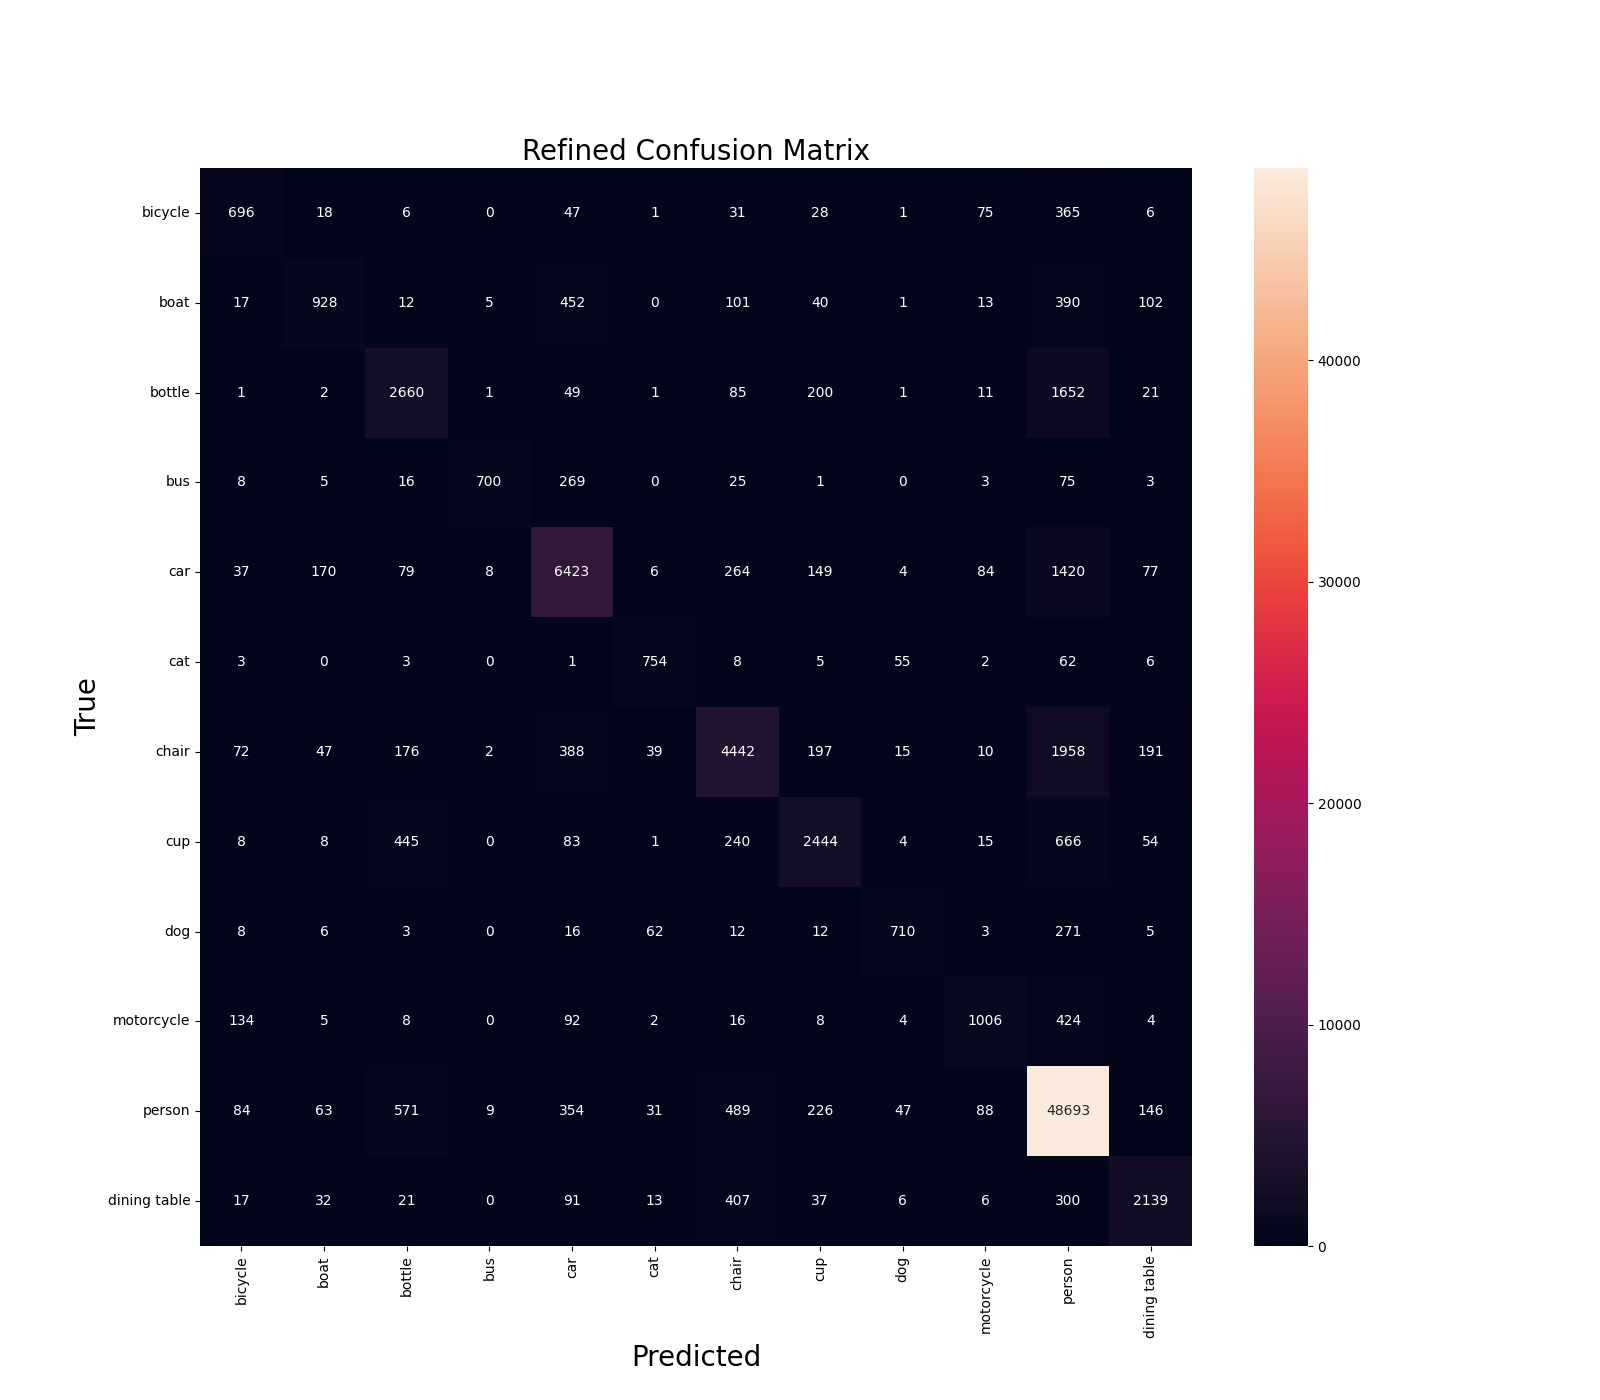
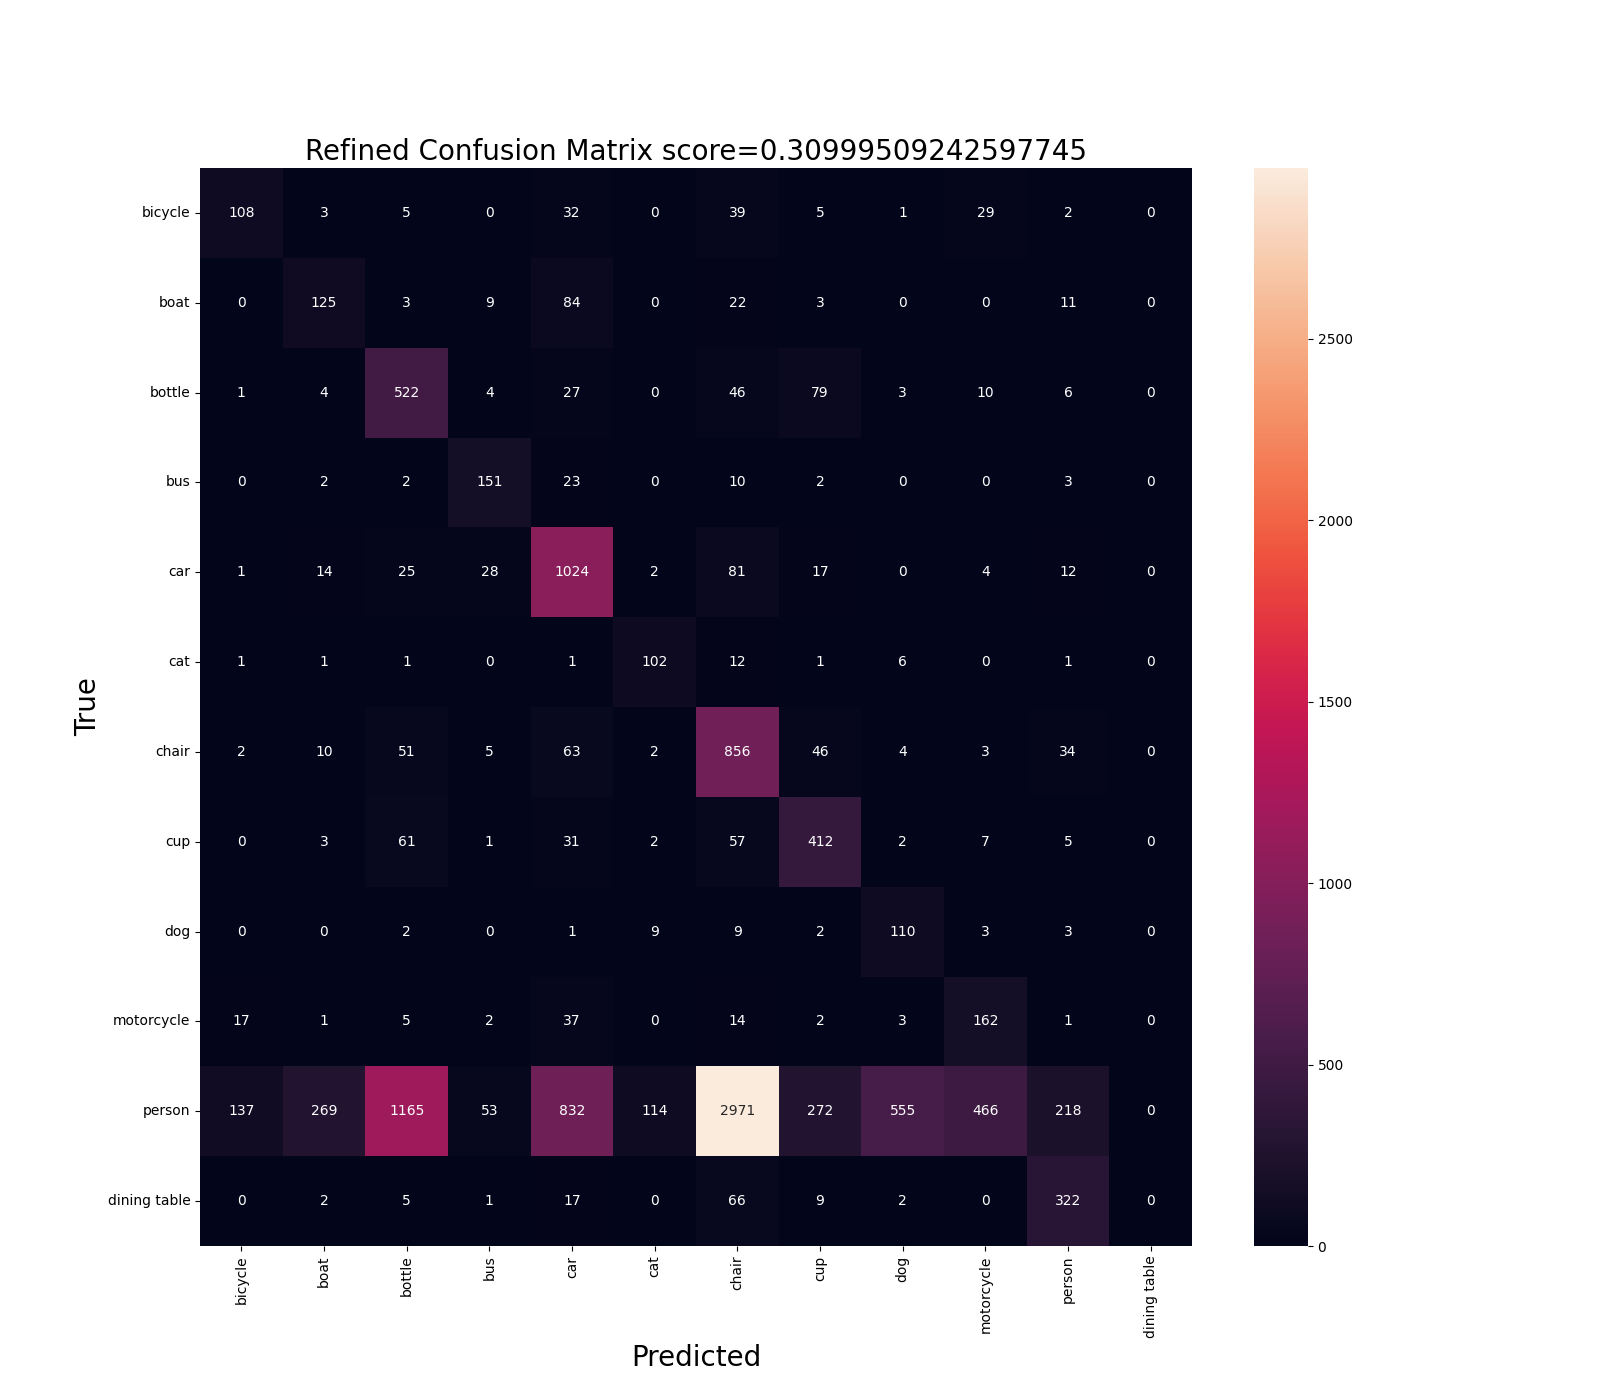
deeplearning handler
new script for runinng models dp and evaluate results

diff --git a/code/DP/DPhandler.py b/code/DP/DPhandler.py
@@ -21,7 +21,7 @@ from sklearn import metrics
 
 class DPhandler(object):
 
-    def __init__(self, classes, num_epochs, early_stop_patience=10, batch_training=100, batch_valid=100, image_size=224, channels=3, image_resize=224):
+    def __init__(self, classes, num_epochs, early_stop_patience=10, batch_training=100, batch_valid=100, image_size=224, channels=3, finetuning=False, image_resize=224):
         self.num_epochs = num_epochs
         self.early_stop_patience = early_stop_patience
         self.classes = classes
@@ -31,21 +31,27 @@ class DPhandler(object):
         self.batch_training = batch_training
         self.batch_valid = batch_valid
         self.checkpoint_path = r"E:\dataset\checkpoints"
+        self.finetuning = finetuning
 
 
     def pretrain(self, model, weights, include_top=False):
         self.pretrain_model = model(include_top=include_top, pooling='avg', weights=weights)
 
-
-    def create_model_transfer(self, classification_layers):
+    def create_model(self, classification_layers):
         self.model = Sequential()
         self.model.add(self.pretrain_model)
         for layer in classification_layers:
             self.model.add(layer)
-        self.model.layers[0].trainable = False
+        if self.finetuning:
+            for layer in self.model.layers:
+                layer.trainable = True
+        else:
+            self.model.layers[0].trainable = False
         self.model.summary()
         self.model.compile(optimizer=Adam(learning_rate=0.001), loss='categorical_crossentropy', metrics=['accuracy'])
-
+        print('layers trainable:')
+        for i, layer in enumerate(self.model.layers):
+            print(i, layer.name, layer.trainable)
 
     def loadDataset_preprocessing(self, dataset_dir, preprocess):
 
@@ -53,10 +59,8 @@ class DPhandler(object):
                                             validation_split=0.2,
                                             horizontal_flip=True,
                                             vertical_flip=True)
-        # flow_From_directory generates batches of augmented data (where augmentation can be color conversion, etc)
+        # flow_From_directory generates batches of augmented data
         # Both train & valid folders must have NUM_CLASSES sub-folders
-        #dataset_dir = r"E:\dataset\coco\train"
-        #dataset_valid_dir = r"E:\dataset\coco\valid"
         self.train_generator = data_generator.flow_from_directory(
             dataset_dir,
             classes=self.classes,
@@ -92,9 +96,9 @@ class DPhandler(object):
             steps_per_epoch=self.step_per_epoch_train,
             epochs=self.num_epochs,
             validation_data=self.validation_generator,
-            validation_steps=self.step_per_epoch_valid,
-            callbacks=[cp_callback, cb_early_stopper])
-
+            callbacks=[cp_callback, cb_early_stopper],
+            validation_steps=self.step_per_epoch_valid)
+        #self.model.save_weights(checkpoint_path.format(epoch=0))
 
     def plot_acc_loss(self):
         plt.figure(1, figsize=(15, 8))
@@ -115,14 +119,13 @@ class DPhandler(object):
         plt.show()
 
     @staticmethod
-    def load_dataset(dataset_dir, BATCH_SIZE_TESTING, image_size):
-        data_generator = ImageDataGenerator()
+    def load_dataset(dataset_dir, preprocess, classes, BATCH_SIZE=1, image_size=224):
+        data_generator = ImageDataGenerator(preprocessing_function=preprocess)
         ds = data_generator.flow_from_directory(
             directory=dataset_dir,
             target_size=(image_size, image_size),
-            batch_size=BATCH_SIZE_TESTING,
-            classes=["bicycle", "boat", "bottle", "bus", "car", "cat", "chair", "cup", "dog", "motorcycle", "person",
-                     "dining table"],
+            batch_size=BATCH_SIZE,
+            classes=classes,
             shuffle=False,
             seed=123
         )
@@ -156,17 +159,63 @@ class DPhandler(object):
         plt.savefig('ConMat24.png')
         plt.show()
 
+
     def saved_model(self, path):
         self.model.save(path)
 
-    def dshist(self):
+
+    def evaluate(self, ds):
+        pred, predicted_class_indices = self.predict(ds)
+        self.confuction_mat(ds.labels, predicted_class_indices, list(ds.class_indices.keys()))
+
+
+    @staticmethod
+    def dshistc(ds):
+        fig, ax = plt.subplots(1)
+        ax.set_ylabel('ds')
+        h1 = ax.hist(np.array(list(ds.class_indices.keys()))[ds.labels])
+        return h1
+
+    def dshist(self, ds=''):
         fig, ax = plt.subplots(2,1, sharex=True)
         ax[0].set_ylabel('train ds')
         ax[1].set_ylabel('valid ds')
-
         h1 = ax[0].hist(np.array(list(self.train_generator.class_indices.keys()))[self.train_generator.labels])
         h2 = ax[1].hist(np.array(list(self.validation_generator.class_indices.keys()))[self.validation_generator.labels])
         return h1, h2
+
+    def load_model(self, path):
+        # Recreate the exact same model, including its weights and the optimizer
+        self.model = tf.keras.models.load_model(path)
+        # Show the model architecture
+        self.model.summary()
+
+def load_saved_model(path):
+    dp = DPhandler(classes=classes,
+              num_epochs=20,
+              early_stop_patience=3,
+              batch_training=32,
+              batch_valid=32,
+              finetuning=True)
+    dp.load_model(saved_models_path)
+    return dp
+
+
+def train_model():
+    dp = DPhandler(classes=classes,
+                   num_epochs=20,
+                   early_stop_patience=3,
+                   batch_training=32,
+                   batch_valid=32,
+                   finetuning=True)
+    dp.pretrain(pretrain_model, weights=weights)
+    dp.create_model([Flatten(),
+                              Dense(512, activation='relu'),
+                              Dense(len(classes), activation='softmax')])
+    dp.loadDataset_preprocessing(dataset_dir, preprocess_input)
+    dp.fit()
+    dp.plot_acc_loss()
+    return dp
 
 if __name__ == '__main__':
     dataset_dir = r"E:\dataset\coco\train"
@@ -174,35 +223,25 @@ if __name__ == '__main__':
     dir = r"E:\dataset\ExDark"
     classes = ["bicycle", "boat", "bottle", "bus", "car",
                "cat", "chair", "cup", "dog", "motorcycle",
-               "person", "dining table"]
+              "dining table"] #people
     weights = 'imagenet'
     checkpoint_path = r"E:\dataset\checkpoints"
-    saved_models_path = r"E:\dataset\models_saved"
+    saved_models_path = r"E:\dataset\models_saved\resnet50.h"
+    num_epochs = 20
+    early_stop_patience = 3
+    batch_training = 32
+    batch_valid = 32
     pretrain_model = ResNet50
-    dp = DPhandler(classes=classes,
-              num_epochs=50,
-              early_stop_patience=5,
-              batch_training=32,
-              batch_valid=32)
-    dp.pretrain(pretrain_model, weights=weights)
-    dp.create_model_transfer([Flatten(),
-                              Dense(512, activation='relu'),
-                              Dense(len(classes), activation='softmax')])
-    dp.loadDataset_preprocessing(dataset_dir, preprocess_input)
-    dp.fit()
-    dp.plot_acc_loss()
-    # Save the weights using the `checkpoint_path` format
-    dp.model.save_weights(checkpoint_path.format(epoch=0))
-    loss, acc = dp.model.evaluate(dp.validation_generator, verbose=2)
-    # Save the entire model to a HDF5 file.
-    # The '.h5' extension indicates that the model should be saved to HDF5.
-    #model.save('my_model.h5')
-    #dp.model.evaluate()
-    # model.load_weights('./checkpoints/my_checkpoint')
-    #print("Restored model, accuracy: {:5.2f}%".format(100 * acc))
-    # # Recreate the exact same model, including its weights and the optimizer
-    # new_model = tf.keras.models.load_model('my_model.h5')
-    #
-    # # Show the model architecture
-    # new_model.summary()
+    ds_test = DPhandler.load_dataset(dataset_test_dir, preprocess_input, classes)
+    ds_dark = DPhandler.load_dataset(dir, preprocess_input, classes)
+    DPhandler.dshistc(ds_test)
+    do_train = True
+
+    if do_train:
+        dp = train_model()
+    else:
+        dp = load_saved_model(saved_models_path)
+
+    dp.saved_model(saved_models_path)
+    dp.evaluate(ds_test)
     pass

diff --git a/code/DP/model_resnet50.py b/code/DP/model_resnet50.py
@@ -132,13 +132,13 @@ grid = ParameterGrid(param_grid)
 for params in grid:
     print(params)
 '''
-fit_history = model.fit_generator(
+fit_history = model.fit(
         train_generator,
         steps_per_epoch=STEPS_PER_EPOCH_TRAINING,
         epochs=NUM_EPOCHS,
         validation_data=validation_generator,
         validation_steps=STEPS_PER_EPOCH_VALIDATION,
-        callbacks= [cb_early_stopper]
+        callbacks=[cb_early_stopper]
 
 )
 #model.load_weights(r"E:\dataset\best.hdf5")
